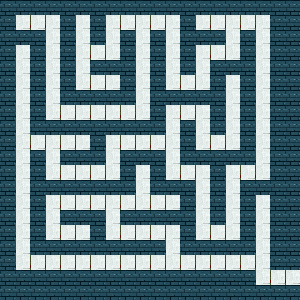
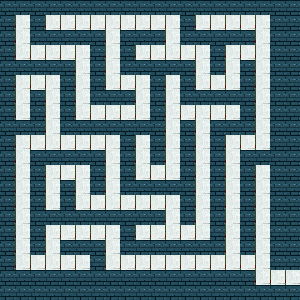
fix restart button

diff --git a/Maze_Game.py b/Maze_Game.py
@@ -66,7 +66,9 @@ class Maze:
     def update_now_map_data(self, map_num):
         self.now_map_data = self.map_data[map_num]
 
+
 class Screen:
+    @staticmethod
     def show_ending_screen(screen, elapsed_time):
         ending_font = pygame.font.Font(None, 72)
         message_font = pygame.font.Font(None, 36)
@@ -75,16 +77,16 @@ class Screen:
         ending_message = ending_font.render("GAME CLEAR!", True, (255, 255, 0))
         time_message = message_font.render(f"total time: {elapsed_time} sec", True, (255, 255, 255))
         restart_message = message_font.render("Press 'm' to play again", True, (255, 255, 255))
+
         screen.blit(ending_message, (screen.get_width() // 2 - ending_message.get_width() // 2, 
                                       screen.get_height() // 2 - ending_message.get_height() // 2 - 20))
         screen.blit(time_message, (screen.get_width() // 2 - time_message.get_width() // 2, 
                                     screen.get_height() // 2 + time_message.get_height() // 2))
         screen.blit(restart_message, (screen.get_width() // 2 - restart_message.get_width() // 2, 
                                        screen.get_height() // 2 + time_message.get_height() + 20))
-                                    
+
         pygame.mixer.Sound('sound_clear.mp3').play(-1)
         pygame.display.flip()
-        
 
         waiting_for_input = True
         while waiting_for_input:
@@ -97,6 +99,7 @@ class Screen:
                         waiting_for_input = False  # 게임을 다시 시작하기 위한 플래그
 
         pygame.quit()  # 이전 게임 종료
+
 
 class Player:
     def __init__(self, tile_num, player_image, screen):
@@ -160,92 +163,97 @@ class Player:
             return False
 
 
-# Pygame 초기화
-pygame.init()
-pygame.mixer.init()
+def restart_game():
+    # Pygame 초기화
+    pygame.init()
+    pygame.mixer.init()
 
-# 배경음악과 효과음 설정
-pygame.mixer.music.load('bgm.mp3')
-pygame.mixer.music.play(-1)  # 반복 재생
-pygame.mixer.music.set_volume(0.5)
+    # 배경음악과 효과음 설정
+    pygame.mixer.music.load('bgm.mp3')
+    pygame.mixer.music.play(-1)  # 반복 재생
+    pygame.mixer.music.set_volume(0.5)
 
-# 이미지 로드 및 크기 조정
-wall_image = pygame.image.load('stone_wall02.png')
-wall_image = pygame.transform.scale(wall_image, (15, 15))
-road_image = pygame.image.load('01tizeta_floor_e.png')
-road_image = pygame.transform.scale(road_image, (15, 15))
-player_image = pygame.image.load('Player.png')
-player_image = pygame.transform.scale(player_image, (15, 15))
+    # 이미지 로드 및 크기 조정
+    global wall_image, road_image, player_image, maze
+    wall_image = pygame.image.load('stone_wall02.png')
+    wall_image = pygame.transform.scale(wall_image, (15, 15))
+    road_image = pygame.image.load('01tizeta_floor_e.png')
+    road_image = pygame.transform.scale(road_image, (15, 15))
+    player_image = pygame.image.load('Player.png')
+    player_image = pygame.transform.scale(player_image, (15, 15))
 
-# 게임 설정
-print('플레이할 미로 크기를 설정하세요. 전체 타일 개수는 3500개 미만을 추천합니다.')
-x = int(input('미로의 가로 타일 개수 : '))
-y = int(input('미로의 세로 타일 개수 : '))
-maze = Maze(x, y)
-maze.set_edge_tile_num()
-for i in range(3):
-    combined_map = pygame.Surface((15 * maze.width, 15 * maze.height))
-    maze.make_map_picture(i, combined_map)
+    # 게임 설정
+    print('플레이할 미로 크기를 설정하세요. 전체 타일 개수는 3500개 미만을 추천합니다.')
+    x = int(input('미로의 가로 타일 개수 : '))
+    y = int(input('미로의 세로 타일 개수 : '))
+    maze = Maze(x, y)
+    maze.set_edge_tile_num()
+    for i in range(3):
+        combined_map = pygame.Surface((15 * maze.width, 15 * maze.height))
+        maze.make_map_picture(i, combined_map)
 
-maze_map1 = pygame.image.load('MAZE_MAP1.png')
-maze_map2 = pygame.image.load('MAZE_MAP2.png')
-maze_map3 = pygame.image.load('MAZE_MAP3.png')
-map_images = [maze_map1, maze_map2, maze_map3]
+    maze_map1 = pygame.image.load('MAZE_MAP1.png')
+    maze_map2 = pygame.image.load('MAZE_MAP2.png')
+    maze_map3 = pygame.image.load('MAZE_MAP3.png')
+    map_images = [maze_map1, maze_map2, maze_map3]
 
-screen = pygame.display.set_mode((15 * maze.width, 15 * maze.height))
-pygame.display.set_caption("Maze_Game")
+    screen = pygame.display.set_mode((15 * maze.width, 15 * maze.height))
+    pygame.display.set_caption("Maze_Game")
 
-pygame.time.set_timer(pygame.USEREVENT, 5000)
-clock = pygame.time.Clock()
-map_num = 0
-maze.update_now_map_data(map_num)
-player = Player(maze.width + 1, player_image, screen)
+    pygame.time.set_timer(pygame.USEREVENT, 5000)
+    clock = pygame.time.Clock()
+    map_num = 0
+    maze.update_now_map_data(map_num)
+    player = Player(maze.width + 1, player_image, screen)
 
-start_time = t.time()
-font = pygame.font.Font(None, 36)
+    start_time = t.time()
+    font = pygame.font.Font(None, 36)
 
-running = True
+    running = True
 
-# 게임 루프
-while running:
-    elapsed_time = int(t.time() - start_time)
-    screen.blit(map_images[map_num], (0, 0))
-    player.show_player()
+    # 게임 루프
+    while running:
+        elapsed_time = int(t.time() - start_time)
+        screen.blit(map_images[map_num], (0, 0))
+        player.show_player()
 
-    time_surface = font.render(f"Time: {elapsed_time} sec", True, (255, 0, 0))
-    screen.blit(time_surface, (10, 10))
+        time_surface = font.render(f"Time: {elapsed_time} sec", True, (255, 0, 0))
+        screen.blit(time_surface, (10, 10))
 
-    pygame.display.flip()
+        pygame.display.flip()
 
-    for event in pygame.event.get():
-        if event.type == pygame.QUIT:
+        for event in pygame.event.get():
+            if event.type == pygame.QUIT:
+                running = False
+            elif event.type == pygame.KEYDOWN:
+                if player.is_moving_too_fast():
+                    continue
+                if event.key == pygame.K_UP:
+                    key = "UP"
+                elif event.key == pygame.K_DOWN:
+                    key = "DOWN"
+                elif event.key == pygame.K_LEFT:
+                    key = "LEFT"
+                elif event.key == pygame.K_RIGHT:
+                    key = "RIGHT"
+                else:
+                    continue
+
+                try:
+                    player.move_player(key)
+                except OutsideBoundaryError as e:
+                    print(f"오류 발생: {e}")
+
+            if event.type == pygame.USEREVENT:
+                map_num = (map_num + 1) % len(map_images)
+                maze.update_now_map_data(map_num)
+
+        if player.tile_num == maze.exit_tile_nums[0]:
+            Screen.show_ending_screen(screen, elapsed_time)
             running = False
-        elif event.type == pygame.KEYDOWN:
-            if player.is_moving_too_fast():
-                continue
-            if event.key == pygame.K_UP:
-                key = "UP"
-            elif event.key == pygame.K_DOWN:
-                key = "DOWN"
-            elif event.key == pygame.K_LEFT:
-                key = "LEFT"
-            elif event.key == pygame.K_RIGHT:
-                key = "RIGHT"
-            else:
-                continue
 
-            try:
-                player.move_player(key)
-            except OutsideBoundaryError as e:
-                print(f"오류 발생: {e}")
+        clock.tick(60)
 
-        if event.type == pygame.USEREVENT:
-            map_num = (map_num + 1) % len(map_images)
-            maze.update_now_map_data(map_num)
-
-    if player.tile_num == maze.exit_tile_nums[0]:
-        Screen.show_ending_screen(screen, elapsed_time)
-        running = False
-
-    clock.tick(60)
-pygame.quit()
+# 메인 게임 루프
+while True:
+    restart_game()
